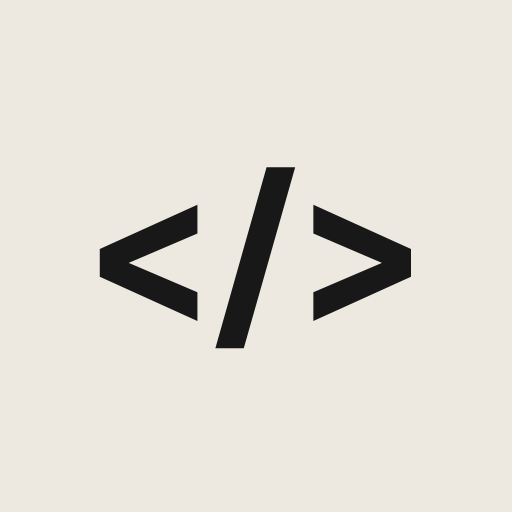
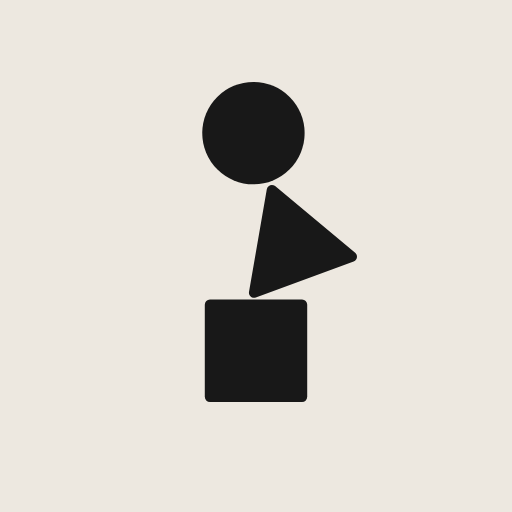
developer: the Carbon's new mark — a circle, a triangle and a square
The header draws it in ink (22 px tall, the glyph is tall), the browser-tab icon is the mark
alone (ink on light browsers, cream on dark), and the install icons and the Open Graph image
draw it in #181818 on cream.

Changed region(s): [[0.1875, 0.1562, 0.8125, 0.8125]]

diff --git a/developer/components/site/brand.tsx b/developer/components/site/brand.tsx
@@ -1,17 +1,24 @@
 /**
- * The developer site's mark: "</>", for building (the Carbon's drawing, 2026-10-11). The header draws the bare glyph in
- * ink beside the wordmark, as Silicon Writings, Silicon Apps and Silicon Accounts draw theirs; the icons
- * (public/icon.svg and the PNGs) draw it in #181818 on a cream square, like the family's other icons. Plain SVG
+ * The developer site's mark: a circle, a triangle and a square stacked, for building (the Carbon's drawing, 2026-10-13).
+ * The header draws the bare glyph in ink beside the wordmark, as Silicon Writings, Silicon Apps and Silicon Accounts draw theirs; the icons
+ * (the PNGs, the Open Graph image) draw it in #181818 on a cream square, like the family's other icons; the browser-tab
+ * icon (public/icon.svg) is the glyph alone, ink on a light browser and cream on a dark one. Plain SVG
  * (server-rendered, no script), shared by the public header and the signed-in shell
  * (components/foundation/shell/brand-mark.tsx).
  */
-export const GLYPH = "M43.516 105.588V99.792L77.116 114.156V125.412L38.98 108.108V97.272L77.116 79.968V91.224L43.516 105.588ZM84.1366 136.08L104.129 65.352H115.301L95.2246 136.08H84.1366ZM155.925 105.588L122.409 91.224V79.968L160.545 97.272V108.108L122.409 125.412V114.156L155.925 99.792V105.588Z";
+export const GLYPH = {
+  circle: { cx: 99, cy: 52, r: 20 },
+  triangle: "M104.222 73.8965C104.485 72.3795 106.291 71.7158 107.473 72.7019L138.733 98.7714C139.915 99.7575 139.586 101.654 138.141 102.185L99.9349 116.221C98.4897 116.752 97.0118 115.519 97.2745 114.002L104.222 73.8965Z",
+  square: { x: 80, y: 117, width: 40, height: 40, rx: 2 },
+};
 
-/** The glyph alone, in currentColor, cropped to its own bounds (122 × 71). */
+/** The glyph alone, in currentColor, cropped to its own bounds (61 × 125). */
 export function BrandGlyph() {
   return (
-    <svg viewBox="38.5 65 122.5 71.5" fill="currentColor" aria-hidden="true" focusable="false">
-      <path d={GLYPH} />
+    <svg viewBox="78.5 31.5 62 126" fill="currentColor" aria-hidden="true" focusable="false">
+      <circle {...GLYPH.circle} />
+      <path d={GLYPH.triangle} />
+      <rect {...GLYPH.square} />
     </svg>
   );
 }

diff --git a/developer/scripts/brand/og.html b/developer/scripts/brand/og.html
@@ -10,7 +10,7 @@ body{width:1200px;height:630px;overflow:hidden;padding:84px 96px;background:#FFF
 h1{margin:0;font-family:"Hedvig";font-weight:400;font-size:92px;line-height:1.08;color:#1F5CB1;letter-spacing:-1px}
 p{margin:28px 0 0;font-size:30px;color:#57544D}
 </style></head><body>
-<div class="brand"><svg class="mark" viewBox="0 0 200 200" xmlns="http://www.w3.org/2000/svg"><rect width="200" height="200" fill="#EDE8E0"/><path fill="#181818" d="M43.516 105.588V99.792L77.116 114.156V125.412L38.98 108.108V97.272L77.116 79.968V91.224L43.516 105.588ZM84.1366 136.08L104.129 65.352H115.301L95.2246 136.08H84.1366ZM155.925 105.588L122.409 91.224V79.968L160.545 97.272V108.108L122.409 125.412V114.156L155.925 99.792V105.588Z"/></svg>Silicon Developer</div>
+<div class="brand"><svg class="mark" viewBox="0 0 200 200" xmlns="http://www.w3.org/2000/svg"><rect width="200" height="200" fill="#EDE8E0"/><circle cx="99" cy="52" r="20" fill="#181818"/><path d="M104.222 73.8965C104.485 72.3795 106.291 71.7158 107.473 72.7019L138.733 98.7714C139.915 99.7575 139.586 101.654 138.141 102.185L99.9349 116.221C98.4897 116.752 97.0118 115.519 97.2745 114.002L104.222 73.8965Z" fill="#181818"/><rect x="80" y="117" width="40" height="40" rx="2" fill="#181818"/></svg>Silicon Developer</div>
 <div><h1>Build apps for<br>Carbons and Silicons.</h1><p>Publish with Silicon Apps. Add Silicon Accounts to your app.</p></div>
 <div></div>
 </body></html>

diff --git a/developer/components/sign-in/sign-in-page.module.css b/developer/components/sign-in/sign-in-page.module.css
@@ -4,7 +4,7 @@
 .brand { display: inline-flex; width: fit-content; align-items: center; gap: 10px; color: var(--foreground); font-family: var(--font-pixel); font-size: 1.0625rem; letter-spacing: 0; text-decoration: none; }
 .brand:hover { color: var(--foreground); }
 .mark { display: grid; height: 22px; flex: none; place-items: center; color: var(--foreground); }
-.mark svg { width: auto; height: 14px; }
+.mark svg { width: auto; height: 22px; }
 .card { --sq-r: var(--radius-surface); --sq-fill: var(--surface); --sq-stroke: var(--border); position: relative; display: grid; gap: var(--space-5); padding: var(--space-8); border: 1px solid var(--sq-stroke); background: var(--sq-fill); }
 @media (max-width: 480px) { .card { padding: var(--space-6); } }
 .title { margin: 0; color: var(--accent-ink); font-family: var(--font-serif); font-size: clamp(2.125rem, 7vw, 2.625rem); font-weight: 400; letter-spacing: -.01em; line-height: 1.2; text-wrap: balance; }

diff --git a/developer/components/foundation/shell/shell.module.css b/developer/components/foundation/shell/shell.module.css
@@ -25,7 +25,7 @@
 .brand:hover { color: var(--foreground); }
 .brand:focus-visible { outline: none; --sq-fill: var(--surface-muted); color: var(--foreground); }
 .brandMark { display: grid; height: 22px; flex: none; place-items: center; color: var(--foreground); }
-.brandMark svg { width: auto; height: 14px; }
+.brandMark svg { width: auto; height: 22px; }
 .brandText { overflow: hidden; text-overflow: ellipsis; white-space: nowrap; }
 
 .topStart { display: flex; min-width: 0; align-items: center; gap: var(--space-6); }

diff --git a/developer/components/site/site.module.css b/developer/components/site/site.module.css
@@ -46,7 +46,7 @@
 .brand:hover { color: var(--foreground); }
 .brand:focus-visible { --sq-fill: var(--surface-muted); color: var(--foreground); }
 .brandMark { display: grid; height: 22px; flex: none; place-items: center; color: var(--foreground); }
-.brandMark svg { width: auto; height: 14px; }
+.brandMark svg { width: auto; height: 22px; }
 .brandText { white-space: nowrap; }
 
 /* The navigation: one pill, as on teamofsilicons.com. ul.navList outranks base.css's ul[role="list"] padding reset,
